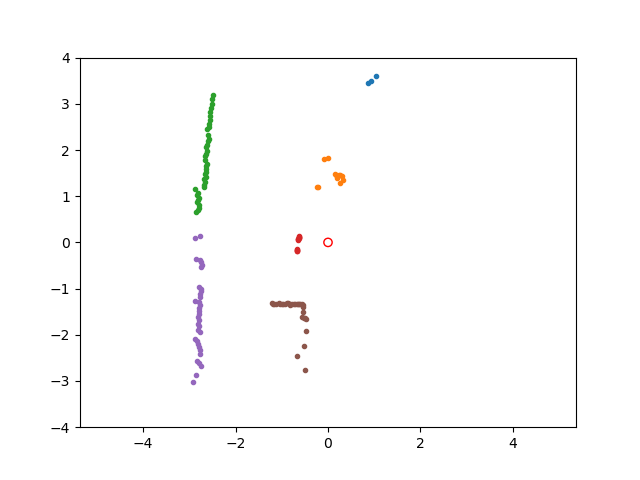
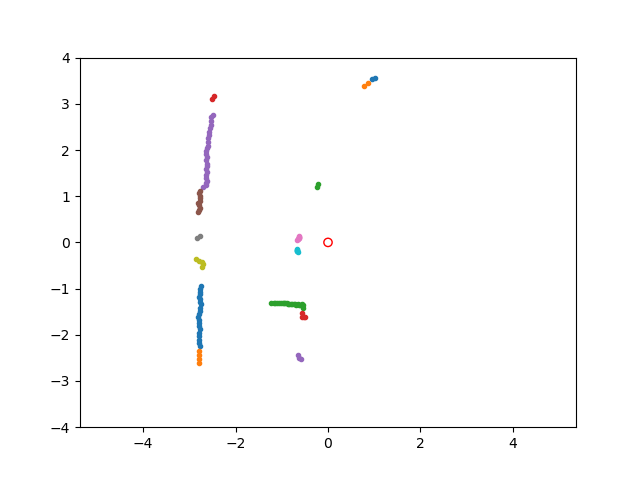
changes mady by paul

diff --git a/src/group31_pkg/navigation_node.py b/src/group31_pkg/navigation_node.py
@@ -1,20 +1,135 @@
 import numpy as np
 
 TOTAL_LEFT_MOVED, TOTAL_RIGHT_MOVED = 0, 0
-WHEEL_DISTANCE = 57
+WHEEL_DISTANCE = 57 #TODO: get wheel distance of turle bot
 
 START_X = 140
 START_Y = 50
 START_RAD = 0
 START_POSITIONS = [[230, 50], [140, 50], [50, 50]]
 END_POSITIONS = [[230, 360], [140, 360], [50, 360]]
-LAMBDA, LAMBDA_TAR = 0.5, 0.5
+LAMBDA = 0.5 # forward direction
+LAMBDA_TAR = 0.5 # Repelling force of obstacles
+
+beta_1 = 0
+beta_2 = 0
+sigma = 0
+
+#TODO: Get maximal velocity that should be assignes
+MAX_VELOCITY = 1
+
+#TODO: Get timestep
+TIMESTEP = 0
+
+
+#TODO: get lidar data and make data on same scale
+PSI_OBS = np.deg2rad(range(-180, 180))
+lidar_data = 0
+
+
+def getDeltaPhi(lam, phi, psi):
+    """
+    Returns the new direction of robot
+    """
+    f_obs = 0
+    for psi_obs_i in PSI_OBS:
+        f_obs += f_obs_i(psi_obs_i, lidar_data, beta_1, beta_2, sigma)
+    return f_tar(lam, phi, psi) + f_obs
 
 
 def f_tar(lam_tar, phi, psi_tar):
     """
     Influence from target dynamics
     
-    lam: 
+    lam_tar: turning speed of the robot. Unit radians/s 
+    phi: current direction in global coordinate system in radians
+    psi_tar: direction of target in global coordinate system in radians
+    
+    returns influence of target to new phi
     """
-    return -lam * np.sin(phi - psi)
+    return -lam_tar * np.sin(phi - psi_tar)
+
+
+def f_obs_i(psi_obs, lidar_data_i, beta_1, beta_2, sigma):
+    """
+    Creates repellors at the locations of obstacles
+    
+    psi_obs_i: direction in radians
+    lidar_data_i: distance
+    beta_1, beta_2, sigma: Positive constants
+    
+    Returns influence of psi_obs
+    """
+    lambda_ops_i = lambda_obs(lidar_data_i, beta_1, beta_2)
+    exp_arg = (psi_obs**2)/(2*sigma**2)
+    return lambda_ops_i*(psi_obs)*np.exp(-exp_arg)
+
+def lambda_obs(d, beta_1, beta_2):
+    """
+    weight function
+    """
+    return beta_1 * np.exp(-d/beta_2)
+
+
+def getVelocity(deltaPhi):
+    """
+    Returns the velocity that should be given to the wheels
+    """
+    velocity = (deltaPhi * (WHEEL_DISTANCE/2))/TIMESTEP
+    if np.abs(LAMBDA) >= MAX_VELOCITY:
+        return 0
+    elif velocity > MAX_VELOCITY - LAMBDA:
+        return MAX_VELOCITY - LAMBDA
+    elif velocity < -MAX_VELOCITY + LAMBDA:
+        return -MAX_VELOCITY + LAMBDA
+    return velocity
+
+def getDirection(x_start, y_start, x_end, y_end):
+    """
+    Calculates the heading direction
+    """
+    return -np.arctan2(y_start-y_end, x_start-x_end)
+
+#TODO: make work with turlebot
+def updateMovement(now_x, now_y, old_phi):
+    """
+    Updates the movement
+    """
+    global TOTAL_RIGHT_MOVED, TOTAL_LEFT_MOVED
+    
+    right_moved = encoder_right.getValue() * 20
+    right_now_moved =  right_moved - TOTAL_RIGHT_MOVED
+    TOTAL_RIGHT_MOVED = right_moved
+    
+    left_moved = encoder_left.getValue() * 20
+    left_now_moved = left_moved - TOTAL_LEFT_MOVED
+    TOTAL_LEFT_MOVED = left_moved
+    
+    new_phi = (old_phi + (right_now_moved - left_now_moved) / WHEEL_DISTANCE) % (2*np.pi)
+    
+    c = (left_now_moved + right_now_moved) / 2
+    new_x = now_x - c * np.cos(new_phi)
+    new_y = now_y + c * np.sin(new_phi)
+    return new_x, new_y, new_phi
+
+
+#TODO: make work with turtlebot
+def setVelocity(v_l, v_r):
+    """
+    sets the new velocity
+    """
+    motor_left.setVelocity(v_l)
+    motor_right.setVelocity(v_r)
+
+
+def drive(x, y, phi, end_x, end_y):
+     X_ARR, Y_ARR = [], []
+     while True:
+        #robot.step(timestep)
+        psi = getDirection(x, y, end_x, end_y)
+        delta_phi = getDeltaPhi(LAMBDA_TAR, phi, psi)
+        v = getVelocity(delta_phi)
+        setVelocity(-v+LAMBDA, v+LAMBDA)
+        x, y, phi = updateMovement(x, y, phi)
+        X_ARR.append(x), Y_ARR.append(y)
+        

diff --git a/src/group31_pkg/src/lidar_sub.py b/src/group31_pkg/src/lidar_sub.py
@@ -90,13 +90,13 @@ class LidarSubscriber(Node):
             for cluster in clustered_points:
                 X, Y = cluster
                 self.ax.scatter(X, Y, marker=".")
-                cluster.append(Cluster(x_positions=X, y_positions=Y))
+                clusters.append(Cluster(x_positions=X, y_positions=Y))
             
             # create and publish message
             msg = ClusteredLidarData()
             msg.clusters = clusters
             msg.header.stamp = self.get_clock().now().to_msg()
-            msg.header.frame_id = f"{self.i}
+            msg.header.frame_id = f"{self.i}"
             self.i += 1
             self.publisher_.publish(msg)
             self.get_logger().info('%d Clusterered Lidar Data Published' % self.i)         
